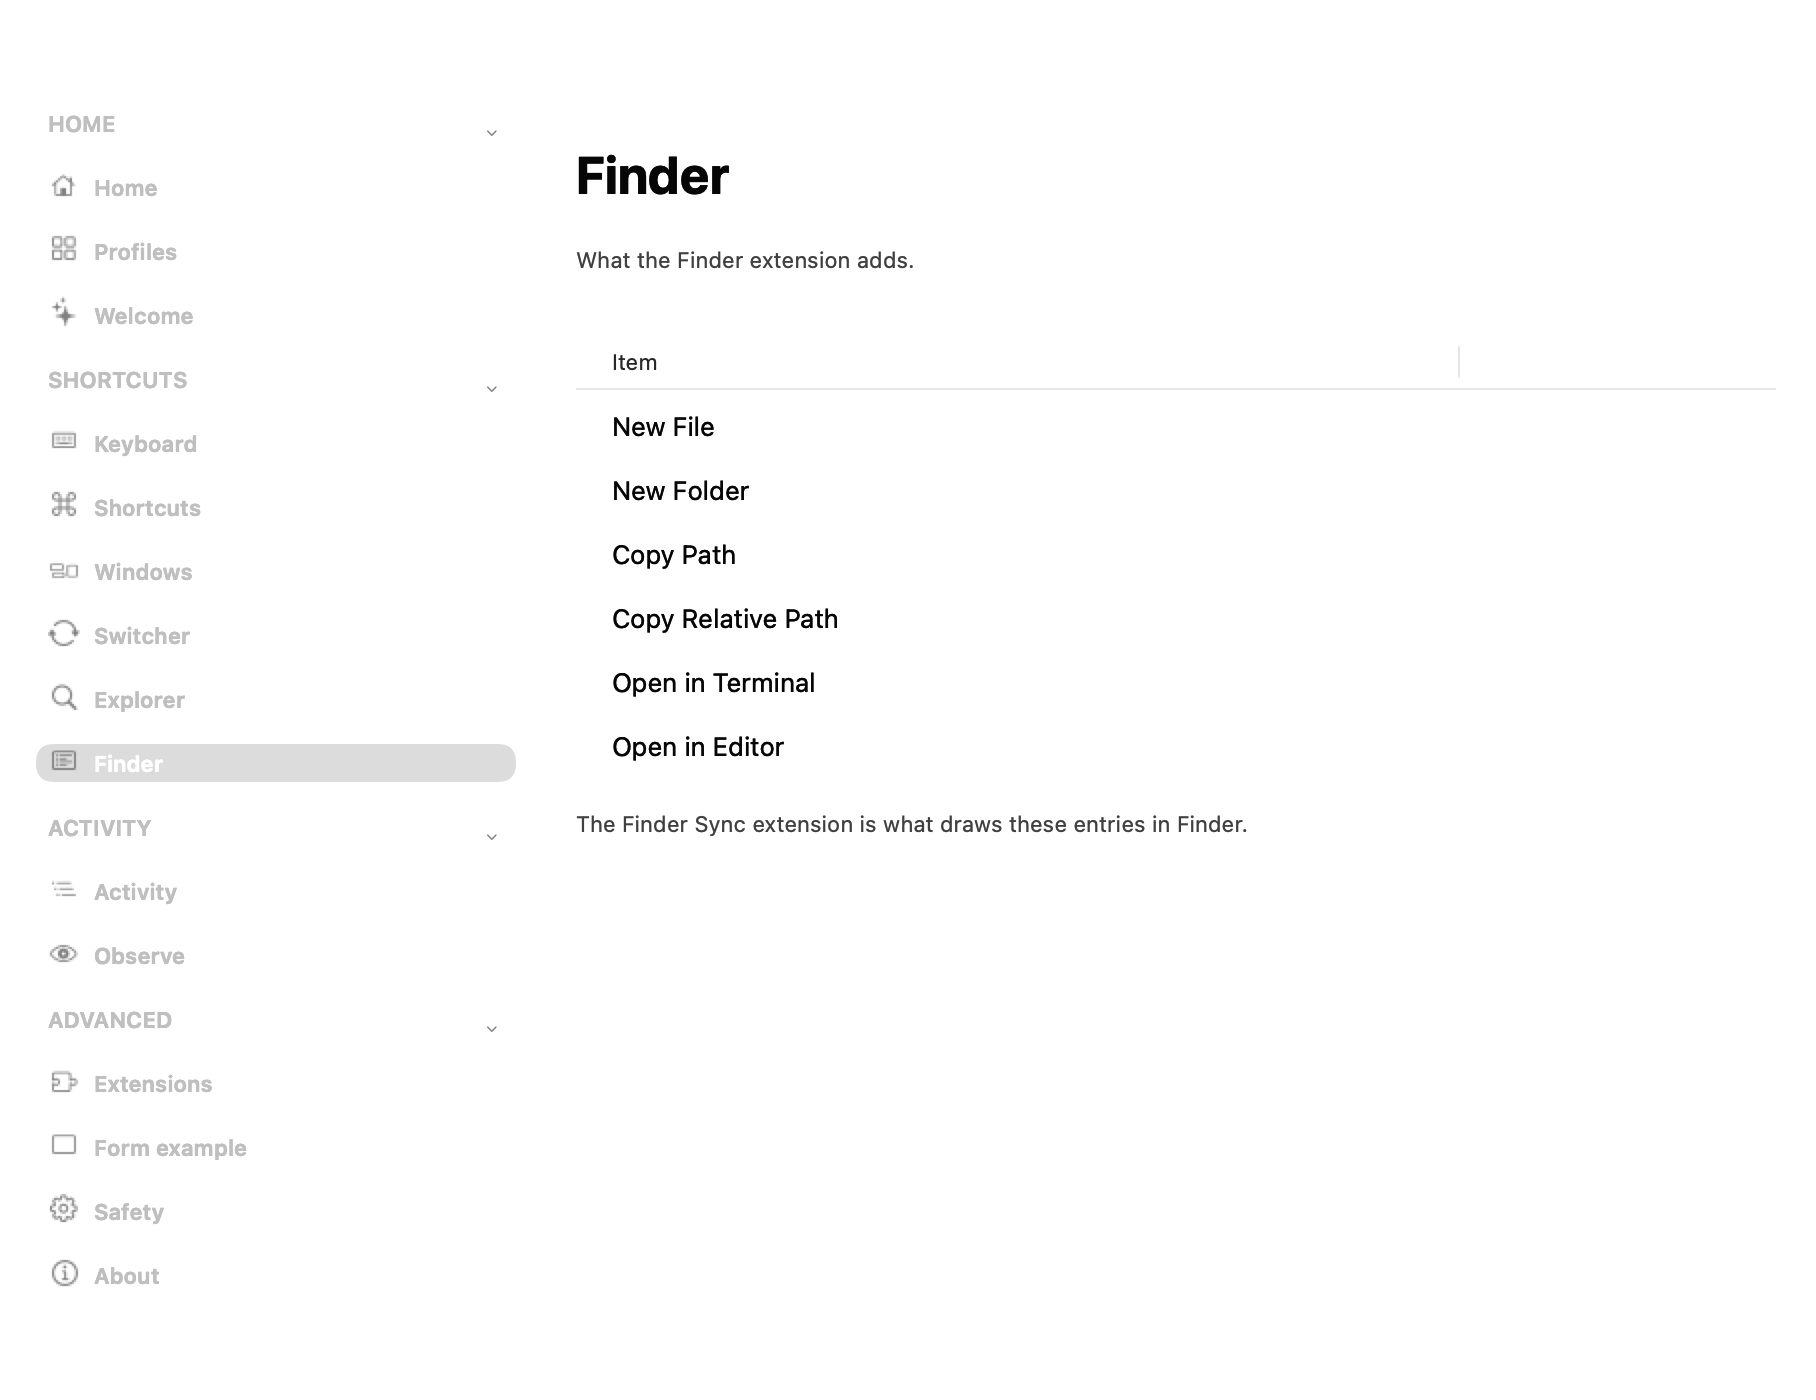
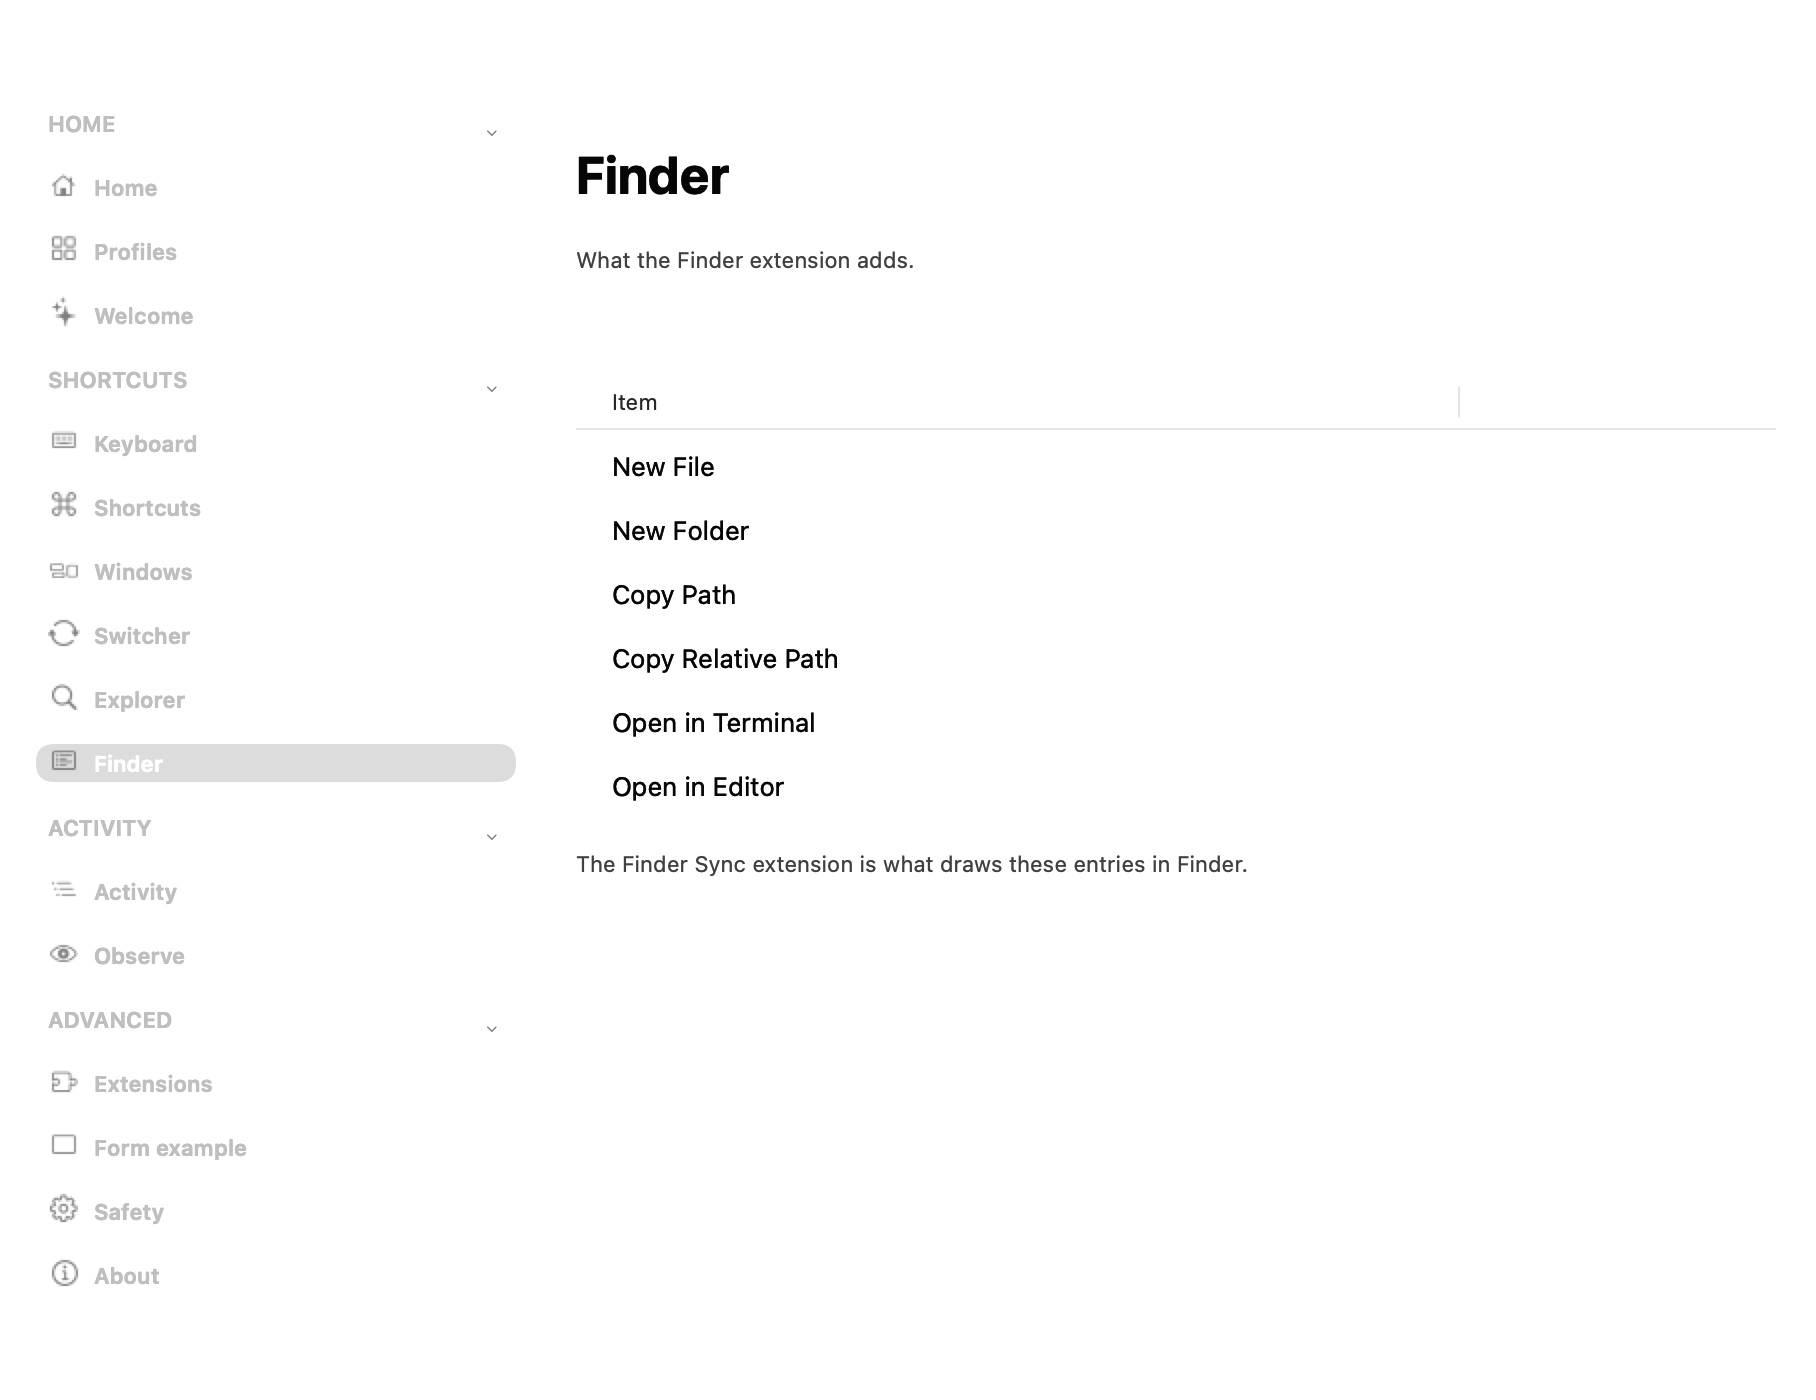
feat: sections get more air than the rows inside them
The page stack's spacing is ONE number for everything, which is why a page
of five sections reads as a single list of five equal-weight things.
`Gap.group` is 20pt whether the gap is between a section's heading and its
first row or between two whole sections.

macOS gives a group more air above it than the rows inside it have, and
the eye groups by that gap rather than by a border — which is also why
removing the borders last time was necessary but not sufficient. With the
borders gone and the rhythm unchanged, the sections had nothing left to
separate them with.

Sections are now 40pt apart instead of 20. Measured on `core.matrix`:
`MatrixView` sits at y=112 and `OverridesView` at y=20.

Verified: CoreTests 111; --audit 15 pages 0 fail.

Changed region(s): [[0.3084, 0.2457, 0.6784, 0.645]]

diff --git a/macos/Sources/CrossOSApp/PageViewController.swift b/macos/Sources/CrossOSApp/PageViewController.swift
@@ -327,9 +327,20 @@ public final class PageViewController: NSViewController {
                 )
             )
         } else {
-            for control in controls {
+            for (index, control) in controls.enumerated() {
                 let view = Renderers.shared.makeView(for: control, context: context)
                 stack.addArrangedSubview(view)
+                // SECTIONS are further apart than things INSIDE one.
+                //
+                // The stack's spacing is a single number for everything, which
+                // is why a page of five sections reads as one list of five
+                // equal-weight things. macOS gives a group more air above it
+                // than the rows inside it have, and the eye groups by that gap
+                // rather than by a border — which is also why removing the
+                // borders was not enough on its own.
+                if index > 0 {
+                    stack.setCustomSpacing(Gap.group + Gap.group, after: stack.arrangedSubviews[index])
+                }
                 // Fill the pane, and hug the content vertically. Two
                 // constraints, one axis each: `.leading` alignment already
                 // keeps the row on the left, and the width is what fills.
